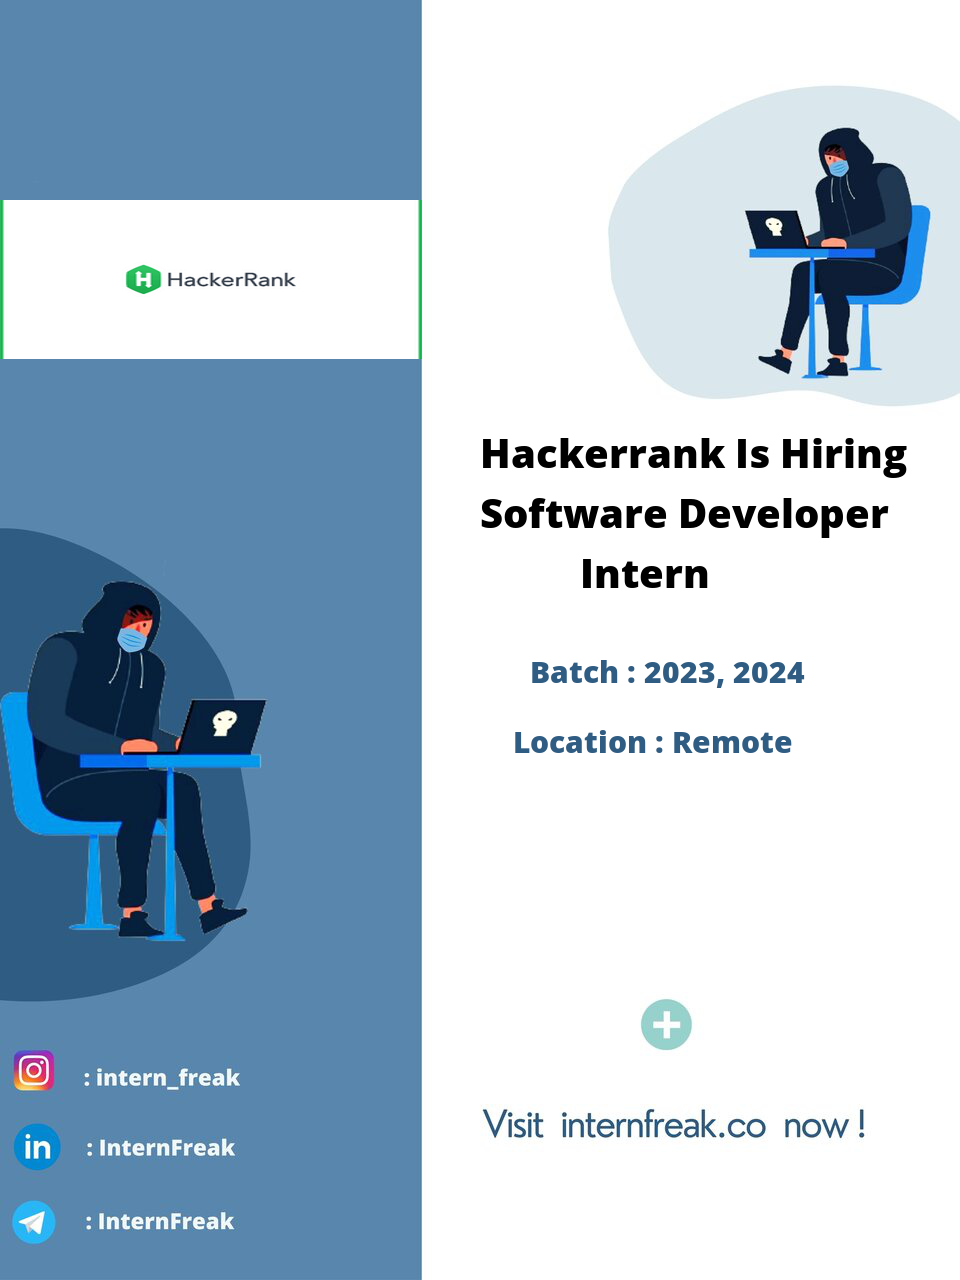
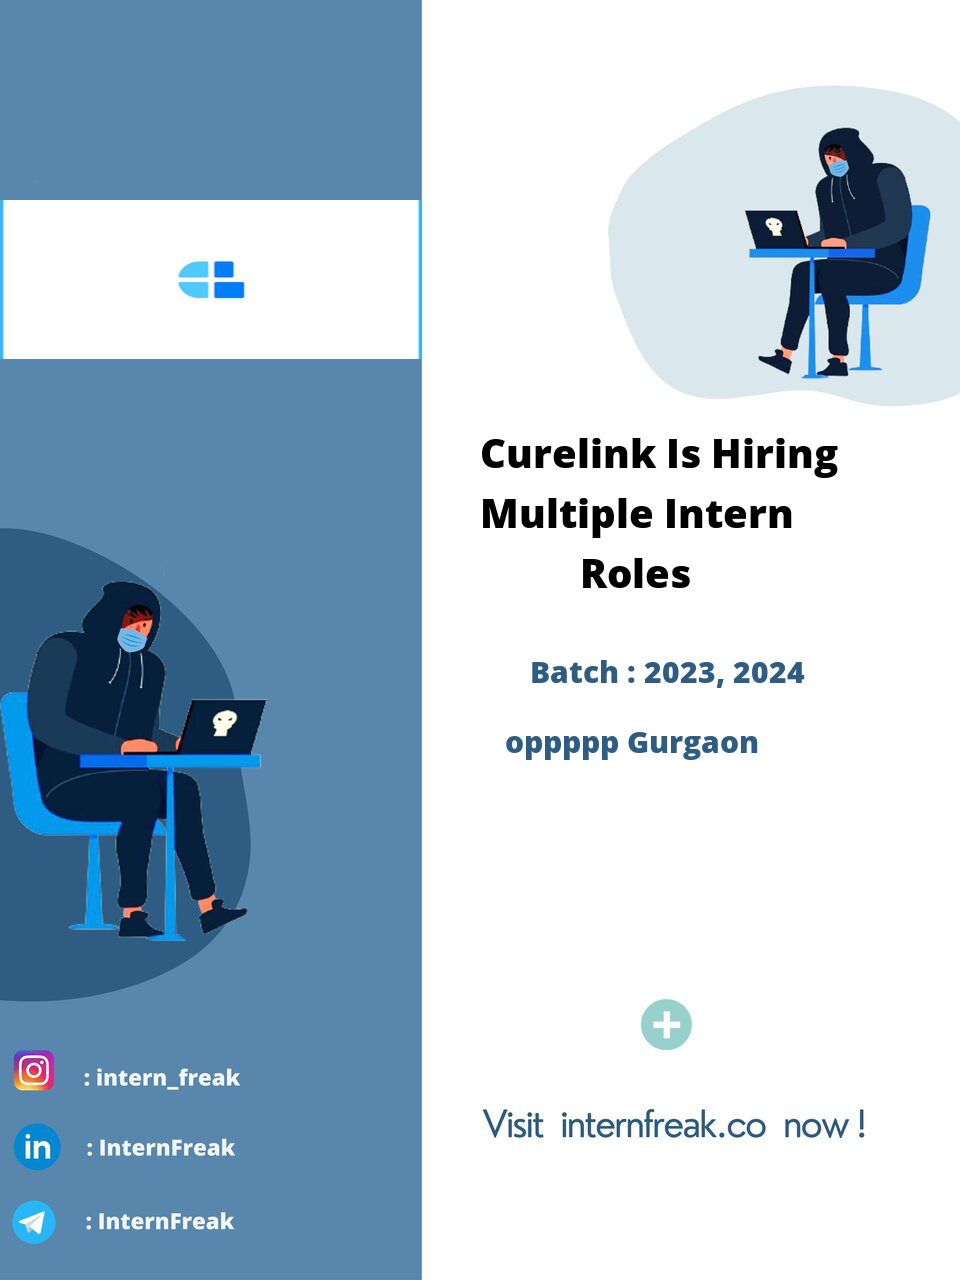
telegram link updated

diff --git a/main.py b/main.py
@@ -45,7 +45,7 @@ def greet1(message1):
   res2 = requests.get(url)
   soup2 = bs4.BeautifulSoup(res2.text, 'lxml')
   designation = soup2.select('p')[1].getText()
-  location= soup2.select('h5')[3].getText()
+  location= "oppppp"
   locationName=soup2.select('p')[5].getText()
 
   ctc = soup2.select('h5')
@@ -53,7 +53,7 @@ def greet1(message1):
   displaytelegram = h1[0].getText()+"\n"+"\n"+ Batch[0].getText()+ "\n"+ctc[2].getText() +" "+ctc_number[3].getText()+"\n"+"\n" +"Know More: "+ url
   displaylinkdin  = h1[0].getText()+"\n"+ Batch[0].getText()+ "\n"+ctc[2].getText() +" "+ctc_number[3].getText()+"\n"+"\n" +"Know More: "+ url
   # -----------
-  linkedinKaMaal ="\n"+"\n"+"Join The Telegram Channel To Get The Latest Updates: https://bit.ly/3xlNvT0" + "\n"+"\n"+"Follow our page for more updates and do like/share the post to reach those who might be interested."+"\n"
+  linkedinKaMaal ="\n"+"\n"+"Join The Telegram Channel To Get The Latest Updates: https://bit.ly/3FElTyx" + "\n"+"\n"+"Follow our page for more updates and do like/share the post to reach those who might be interested."+"\n"
   hastags="\n"+"#like #recruiting #softwareengineer #careers #boeing #helpinghands #fresher #hiring #jobs #recruitment #jobsearch #internship #jobhunt2021 #intern2021 #job #internship #international #studygram #employment #engineering #engineer #jobs #vacancy #staysafe #instagood #intern #india #millennials #postoftheday #post #professional #technology #tech #students #poster #awareness #lifestyle #developer #softwaredeveloper #enterpreneur #sony #viralpost #viral #hustlers #acies #faang #amazon #google #facebook #netflix #apple #dxctechnology #texasinstruments #adobe #adobehiring #dropbox #googlehiring #amazingcompany #educational #tcs #facebookads #comment #highpayingjobs #amount"
   
   urlImgSlice=str(soup.find_all('a')[5])
